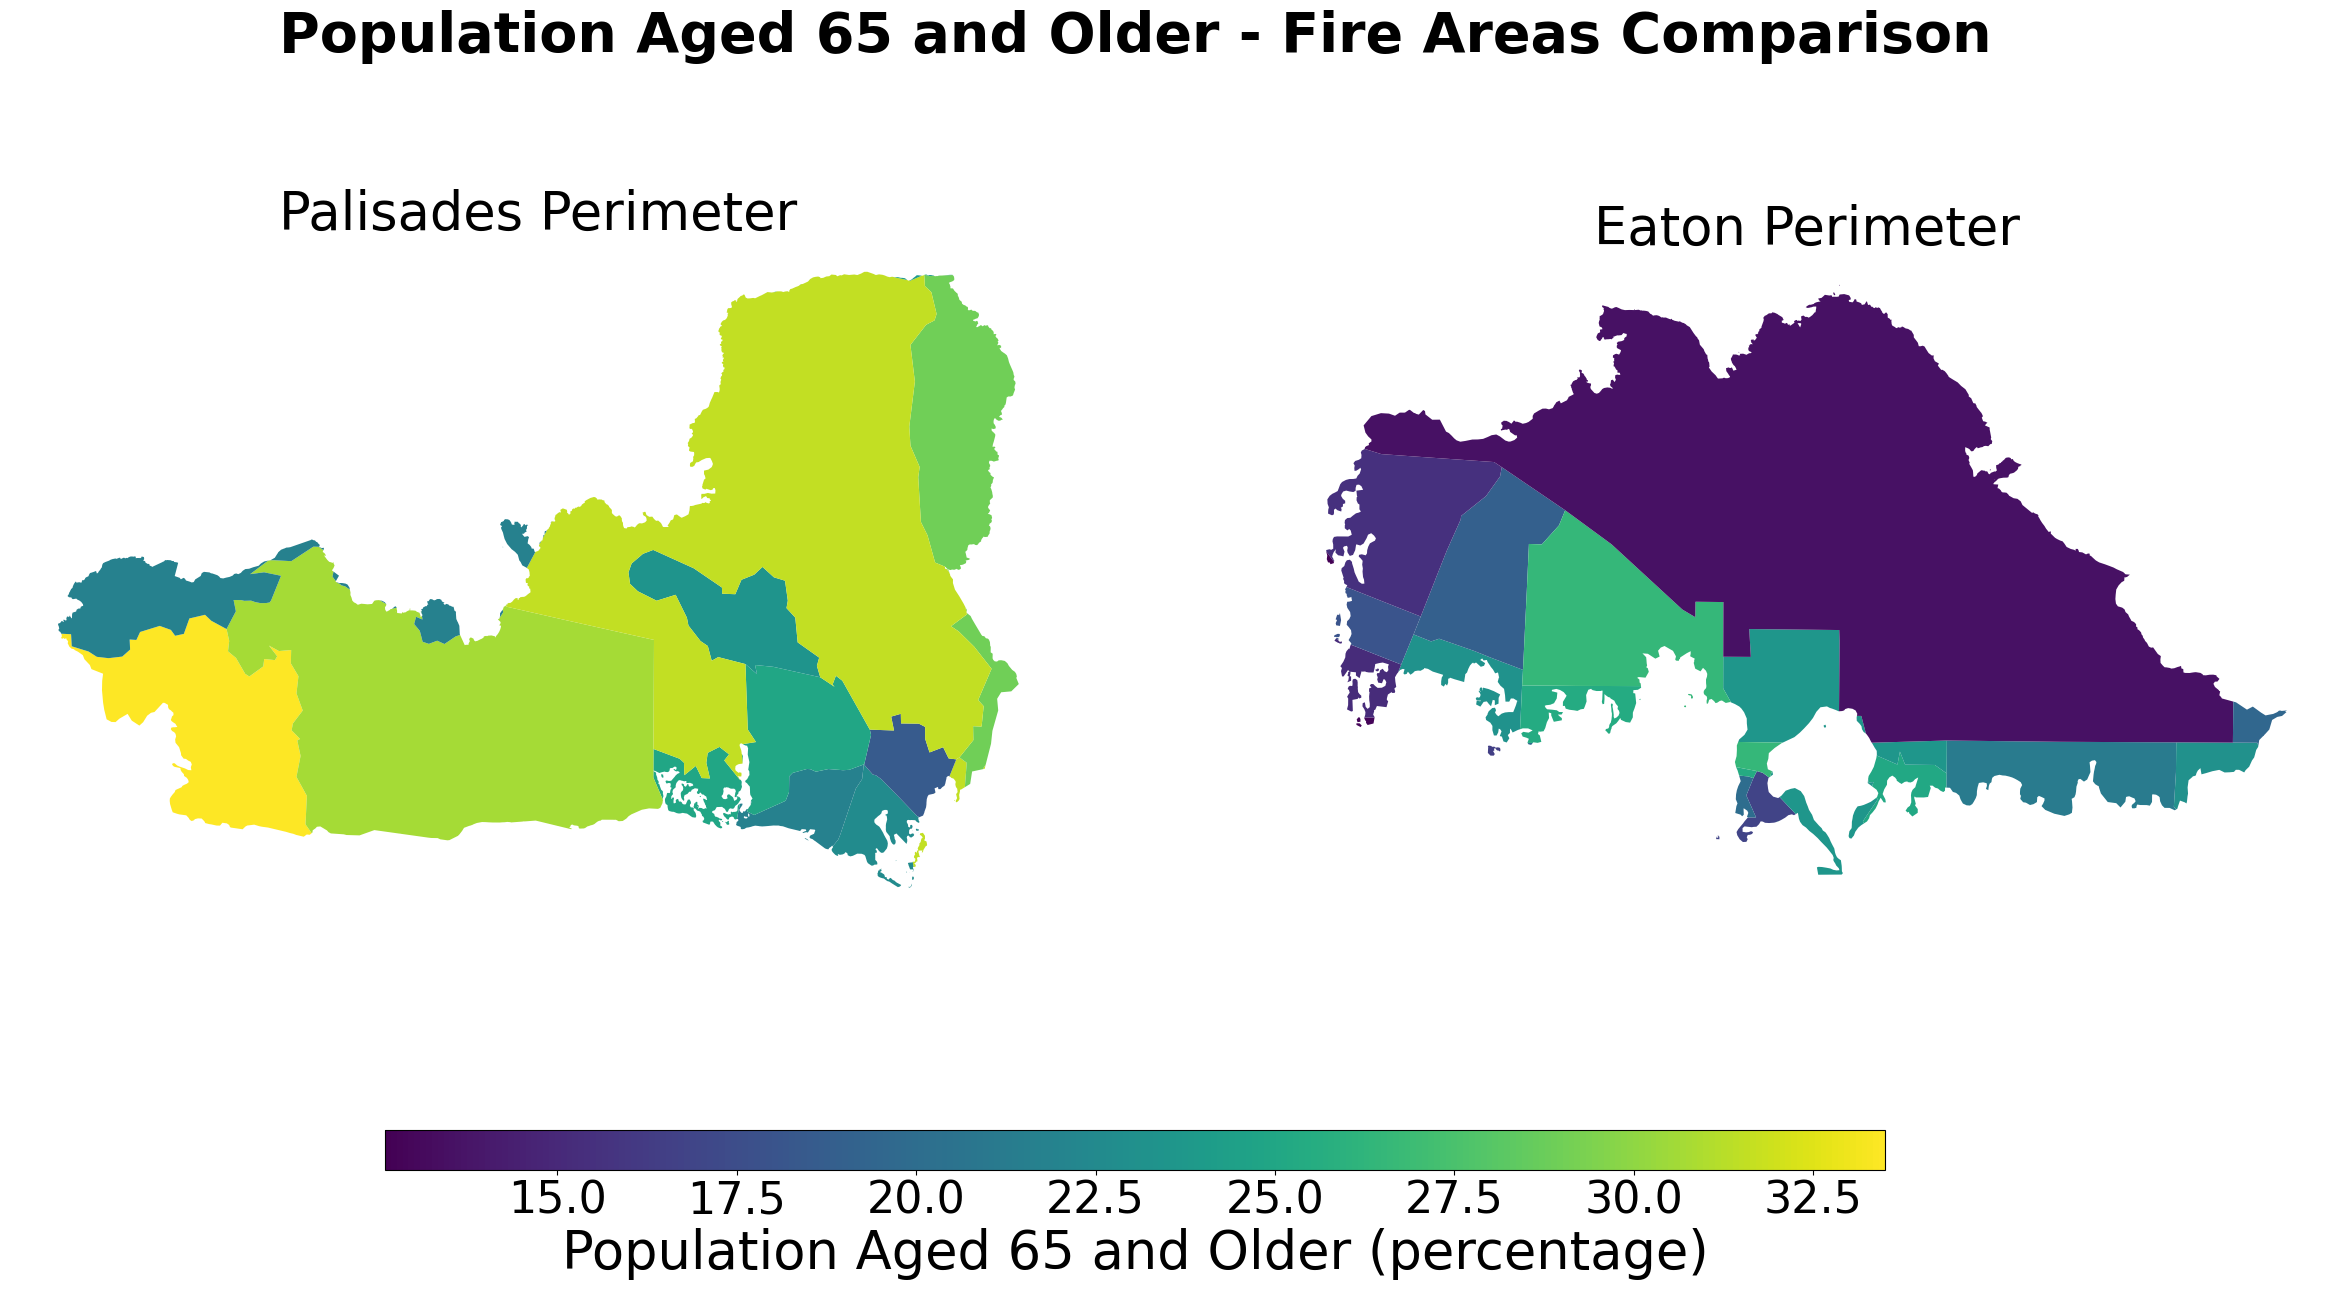
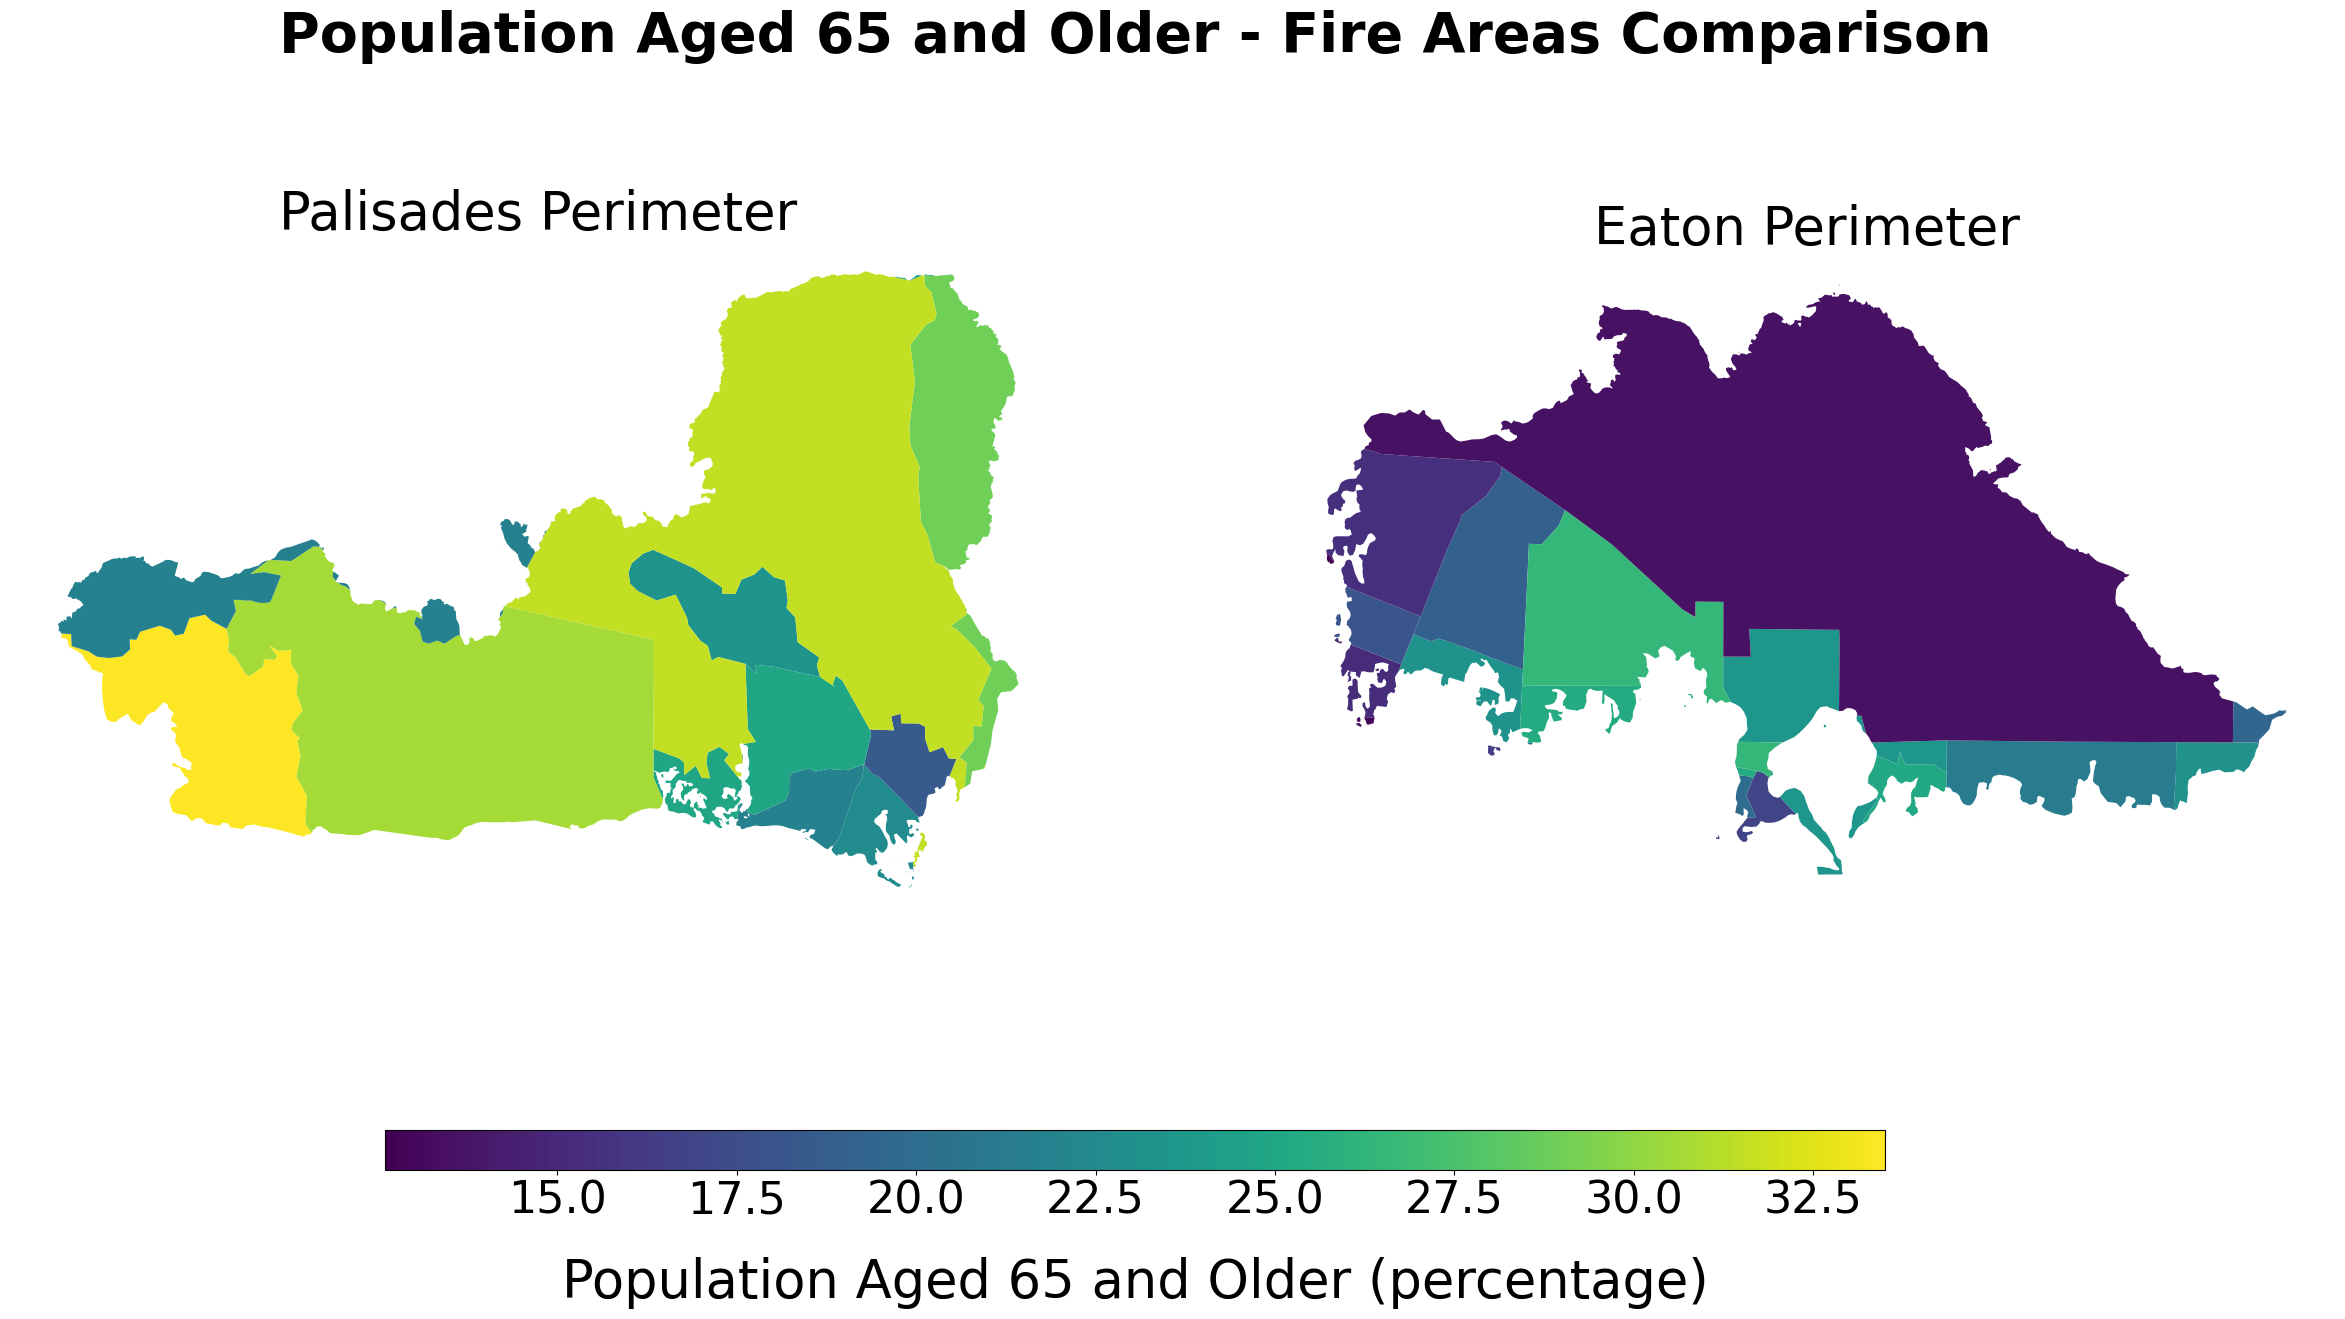
Fix legend space

diff --git a/docs/posts.html b/docs/posts.html
@@ -217,13 +217,13 @@ The complete code and analysis for this project can be found here: GitHub reposi
 Hylaea Miller, Melannie Moreno Rolón, Ixel Medrano, Hylaea Miller
 </div>
 <div class="listing-date">
-Mar 20, 2026
+Mar 21, 2026
 </div>
 </div>
 </div>
 </div></a>
 </div>
-<div class="g-col-1" data-index="1" data-categories="UiUyQ2RhdGEtdml6" data-listing-date-sort="1773039600000" data-listing-file-modified-sort="1773720840866" data-listing-date-modified-sort="NaN" data-listing-reading-time-sort="13" data-listing-word-count-sort="2515">
+<div class="g-col-1" data-index="1" data-categories="UiUyQ2RhdGEtdml6" data-listing-date-sort="1773025200000" data-listing-file-modified-sort="1773720840866" data-listing-date-modified-sort="NaN" data-listing-reading-time-sort="13" data-listing-word-count-sort="2515">
 <a href="./posts/240-blog-post/index.html" class="quarto-grid-link">
 <div class="quarto-grid-item card h-100 card-left">
 <p class="card-img-top">
@@ -254,7 +254,7 @@ Mar 9, 2026
 </div>
 </div></a>
 </div>
-<div class="g-col-1" data-index="2" data-categories="R2Vvc3BhdGlhbCUyQ1B5dGhvbg==" data-listing-date-sort="1765526400000" data-listing-file-modified-sort="1765594430994" data-listing-date-modified-sort="NaN" data-listing-reading-time-sort="6" data-listing-word-count-sort="1131">
+<div class="g-col-1" data-index="2" data-categories="R2Vvc3BhdGlhbCUyQ1B5dGhvbg==" data-listing-date-sort="1765508400000" data-listing-file-modified-sort="1788970846843" data-listing-date-modified-sort="NaN" data-listing-reading-time-sort="6" data-listing-word-count-sort="1131">
 <a href="./posts/220-blog-post/social-dimensions.html" class="quarto-grid-link">
 <div class="quarto-grid-item card h-100 card-left">
 <p class="card-img-top"><img src="posts\220-blog-post\social-dimensions_files\figure-html\e413e322-1-image.png" style="height: 150px;"  class="thumbnail-image card-img"/></p>
@@ -283,7 +283,7 @@ Dec 12, 2025
 </div>
 </div></a>
 </div>
-<div class="g-col-1" data-index="3" data-categories="R2Vvc3BhdGlhbCUyQ1IlMkNkYXRhLXZpeg==" data-listing-date-sort="1765526400000" data-listing-file-modified-sort="1773171294975" data-listing-date-modified-sort="NaN" data-listing-reading-time-sort="15" data-listing-word-count-sort="2810">
+<div class="g-col-1" data-index="3" data-categories="R2Vvc3BhdGlhbCUyQ1IlMkNkYXRhLXZpeg==" data-listing-date-sort="1765508400000" data-listing-file-modified-sort="1773171294975" data-listing-date-modified-sort="NaN" data-listing-reading-time-sort="15" data-listing-word-count-sort="2810">
 <a href="./posts/223-blog-post/texas_blackout.html" class="quarto-grid-link">
 <div class="quarto-grid-item card h-100 card-left">
 <p class="card-img-top">
@@ -316,7 +316,7 @@ Dec 12, 2025
 </div>
 </div></a>
 </div>
-<div class="g-col-1" data-index="4" data-categories="U3RhdGlzdGljcyUyQ1IlMkNkYXRhLXZpeg==" data-listing-date-sort="1764835200000" data-listing-file-modified-sort="1773193155615" data-listing-date-modified-sort="NaN" data-listing-reading-time-sort="12" data-listing-word-count-sort="2341">
+<div class="g-col-1" data-index="4" data-categories="U3RhdGlzdGljcyUyQ1IlMkNkYXRhLXZpeg==" data-listing-date-sort="1764817200000" data-listing-file-modified-sort="1773193155615" data-listing-date-modified-sort="NaN" data-listing-reading-time-sort="12" data-listing-word-count-sort="2341">
 <a href="./posts/222-blog-post/index.html" class="quarto-grid-link">
 <div class="quarto-grid-item card h-100 card-left">
 <p class="card-img-top">

diff --git a/docs/posts/220-blog-post/social-dimensions.html b/docs/posts/220-blog-post/social-dimensions.html
@@ -419,7 +419,7 @@ Data variables:
 <p>Social vulnerability varies significantly across communities affected by wildfires. To understand which affected areas face greater challenges during and after the fires, we visualize the EJI Indicator: Social Vulnerability, age 65 and older data for census tracts within both fire perimeters.</p>
 <p>In this analysis, we focus on the population aged 65 and older (<code>E_AGE65</code>). Older adults often face increased health risks from smoke exposure, have greater difficulty evacuating, and may experience longer recovery times after disasters. By comparing the spatial distribution of this demographic across the Palisades and Eaton fire areas, we can identify which communities may require additional support and resources.</p>
 <p>We create side-by-side maps showing the percentage of residents aged 65 and older in census tracts intersecting each fire perimeter, revealing whether one fire disproportionately affected communities with higher concentrations of vulnerable older residents.</p>
-<div id="0a22dfa6" class="cell" data-execution_count="26">
+<div id="0a22dfa6" class="cell" data-execution_count="11">
 <details class="code-fold">
 <summary>Code</summary>
 <div class="code-copy-outer-scaffold"><div class="sourceCode cell-code" id="cb11"><pre class="sourceCode python code-with-copy"><code class="sourceCode python"><span id="cb11-1"><a href="#cb11-1" aria-hidden="true" tabindex="-1"></a><span class="co"># Create blank figure with two subplots side by side</span></span>
@@ -460,7 +460,7 @@ Data variables:
 <span id="cb11-36"><a href="#cb11-36" aria-hidden="true" tabindex="-1"></a>sm <span class="op">=</span> plt.cm.ScalarMappable( norm<span class="op">=</span>plt.Normalize(vmin<span class="op">=</span>vmin, vmax<span class="op">=</span>vmax))</span>
 <span id="cb11-37"><a href="#cb11-37" aria-hidden="true" tabindex="-1"></a>cbar_ax <span class="op">=</span> fig.add_axes([<span class="fl">0.25</span>, <span class="fl">0.2</span>, <span class="fl">0.5</span>, <span class="fl">0.02</span>])</span>
 <span id="cb11-38"><a href="#cb11-38" aria-hidden="true" tabindex="-1"></a>cbar <span class="op">=</span> fig.colorbar(sm, cax<span class="op">=</span>cbar_ax, orientation<span class="op">=</span><span class="st">'horizontal'</span>)</span>
-<span id="cb11-39"><a href="#cb11-39" aria-hidden="true" tabindex="-1"></a>cbar.set_label(<span class="st">'Population Aged 65 and Older (percentage)'</span>, fontsize<span class="op">=</span><span class="dv">38</span>)</span>
+<span id="cb11-39"><a href="#cb11-39" aria-hidden="true" tabindex="-1"></a>cbar.set_label(<span class="st">'Population Aged 65 and Older (percentage)'</span>, fontsize<span class="op">=</span><span class="dv">38</span>, labelpad<span class="op">=</span><span class="dv">25</span>)</span>
 <span id="cb11-40"><a href="#cb11-40" aria-hidden="true" tabindex="-1"></a>cbar.ax.tick_params(labelsize<span class="op">=</span><span class="dv">32</span>)</span>
 <span id="cb11-41"><a href="#cb11-41" aria-hidden="true" tabindex="-1"></a></span>
 <span id="cb11-42"><a href="#cb11-42" aria-hidden="true" tabindex="-1"></a>plt.show()</span></code></pre></div><button title="Copy to Clipboard" class="code-copy-button"><i class="bi"></i></button></div>
